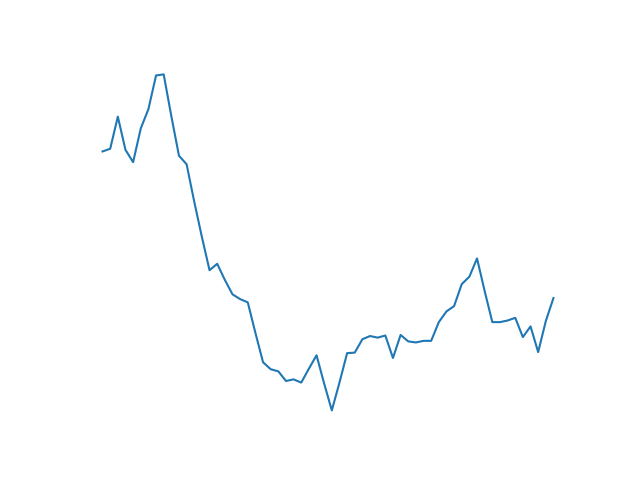
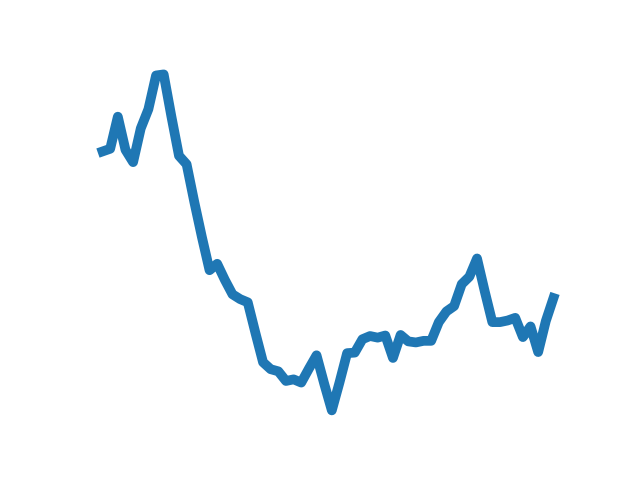
cm161220

Changed region(s): [[0.1562, 0.125, 0.875, 0.875]]

diff --git a/maker.py b/maker.py
@@ -37,7 +37,7 @@ for i in range(0, len(bors), 1):
        ISIN.append(isin[n])
        imagepath.append('https://github.com/lokeshbamb18/StockScreener/raw/main/sparklines/'+sym[i]+'.png')
        cp = comp['CLOSE'][:60]
-       plt.plot(cp)
+       plt.plot(cp, linewidth = 7.0)
        plt.axis('off')
        plt.savefig('/home/lokesh/ML/Android/sparklines/' + sym[i])
        plt.clf()
